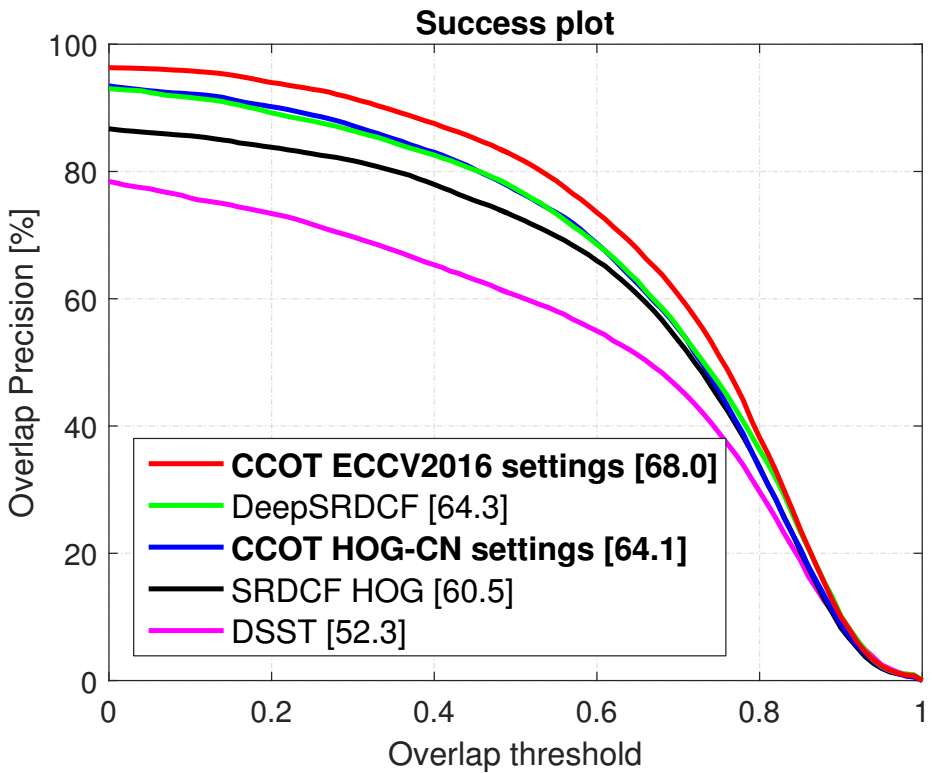
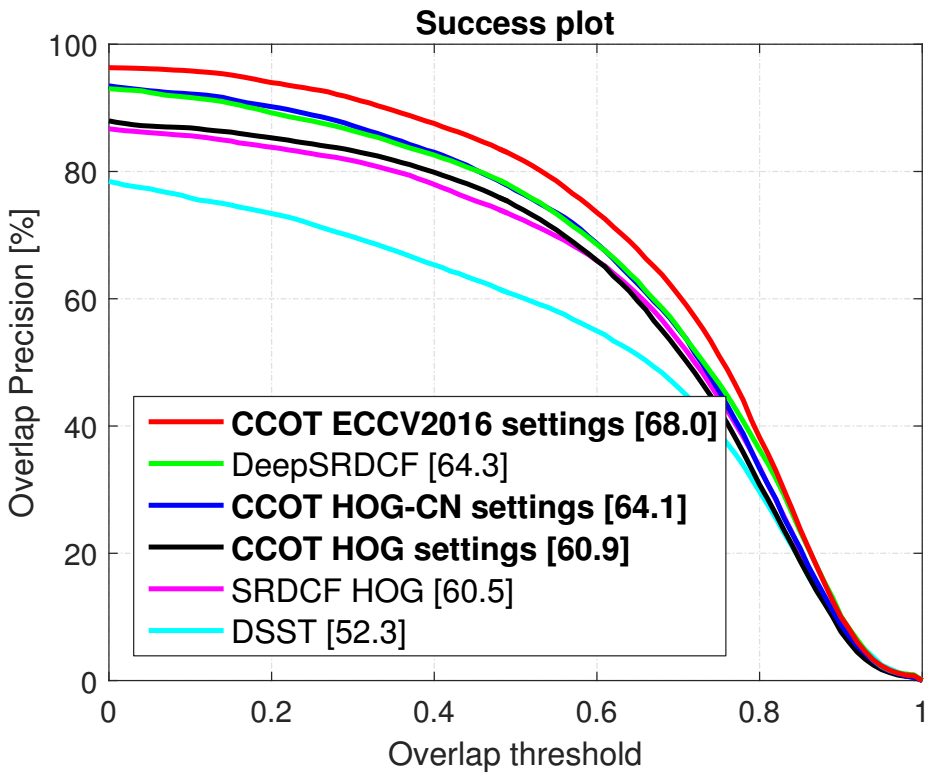
Added a HOG settings runfile.

diff --git a/runfiles/HOG_settings.m b/runfiles/HOG_settings.m
@@ -1,0 +1,87 @@
+function results=ECCV2016_settings(seq, res_path, bSaveImage, parameters)
+
+close all
+
+s_frames = seq.s_frames;
+
+% Feature specific parameters
+hog_params.cell_size = 6;
+
+grayscale_params.colorspace='gray';
+grayscale_params.cell_size = 1;
+
+cn_params.tablename = 'CNnorm';
+cn_params.useForGray = false;
+cn_params.cell_size = 4;
+
+ic_params.tablename = 'intensityChannelNorm6';
+ic_params.useForColor = false;
+ic_params.cell_size = 4;
+
+% Which features to include
+params.t_features = {
+    ...struct('getFeature',@get_colorspace, 'fparams',grayscale_params),...
+    struct('getFeature',@get_fhog,'fparams',hog_params),...
+    ...struct('getFeature',@get_table_feature, 'fparams',cn_params),...
+    ...struct('getFeature',@get_table_feature, 'fparams',ic_params),...
+};
+
+% Global feature parameters
+params.t_global.normalize_power = 2;    % Lp normalization with this p
+params.t_global.normalize_size = true;  % Also normalize with respect to the spatial size of the feature
+params.t_global.normalize_dim = true;   % Also normalize with respect to the dimensionality of the feature
+
+% Image sample parameters
+params.search_area_shape = 'square';    % The shape of the samples
+params.search_area_scale = 4.0;         % The scaling of the target size to get the search area
+params.min_image_sample_size = 150^2;   % Minimum area of image samples
+params.max_image_sample_size = 200^2;   % Maximum area of image samples
+
+% Detection parameters
+params.refinement_iterations = 1;       % Number of iterations used to refine the resulting position in a frame
+params.newton_iterations = 5;           % The number of Newton iterations used for optimizing the detection score
+
+% Learning parameters
+params.output_sigma_factor = 1/16;		% Label function sigma
+params.learning_rate = 0.010;			% Learning rate
+params.nSamples = 300;                  % Maximum number of stored training samples
+params.sample_replace_strategy = 'lowest_prior';    % Which sample to replace when the memory is full
+params.lt_size = 0;                     % The size of the long-term memory (where all samples have equal weight)
+
+% Conjugate Gradient parameters
+params.max_CG_iter = 5;                 % The number of Conjugate Gradient iterations
+params.init_max_CG_iter = 50;          % The number of Conjugate Gradient iterations used in the first frame
+params.CG_tol = 1e-3;                   % The tolerence of CG does not have any effect
+params.CG_forgetting_rate = 10;         % Forgetting rate of the last conjugate direction
+params.precond_data_param = 0.5;        % Weight of the data term in the preconditioner
+params.precond_reg_param = 0.02;        % Weight of the regularization term in the preconditioner
+
+% Regularization window parameters
+params.use_reg_window = true;           % Use spatial regularization or not
+params.reg_window_min = 1e-4;			% The minimum value of the regularization window
+params.reg_window_edge = 4e-3;         % The impact of the spatial regularization
+params.reg_window_power = 2;            % The degree of the polynomial to use (e.g. 2 is a quadratic window)
+params.reg_sparsity_threshold = 0.05;   % A relative threshold of which DFT coefficients that should be set to zero
+
+% Interpolation parameters
+params.interpolation_method = 'bicubic';    % The kind of interpolation kernel
+params.interpolation_bicubic_a = -0.75;     % The parameter for the bicubic interpolation kernel
+params.interpolation_centering = true;      % Center the kernel at the feature sample
+params.interpolation_windowing = false;     % Do additional windowing on the Fourier coefficients of the kernel
+
+% Scale parameters
+params.number_of_scales = 7;            % Number of scales to run the detector
+params.scale_step = 1.01;               % The scale factor
+
+% Other parameters
+params.visualization = 0;               % Visualiza tracking and detection scores
+params.debug = 0;                       % Do full debug visualization
+
+
+% Initialize
+params.wsize = [seq.init_rect(1,4), seq.init_rect(1,3)];
+params.init_pos = [seq.init_rect(1,2), seq.init_rect(1,1)] + floor(params.wsize/2);
+params.s_frames = s_frames;
+
+% Run tracker
+results = tracker(params);

diff --git a/README.md b/README.md
@@ -100,13 +100,15 @@ Lastly, perform steps 3. and 4. above.
 
 The files in the runfiles/ directory are uset to set parameters and run the tracker. You can create your own runfiles by copying an existing one and then play around with different parameters and feature combinations. 
 
-Three runfiles are included:
+These runfiles are included:
 
 * ECCV2016_settings.m  -  Contains the parameter settings that were used in the ECCV 2016 paper.
 
 * VOT2016_settings.m  -  Contains the parameter settings that were used in the Visual Object Tracking (VOT) 2016 challenge submission.
 
 * HOG_CN_settings.m  -  Employs only HOG and Color Names [6] features with cell sizes 6 and 4 respectively. This version is faster and does not require matconvnet.
+
+* HOG_settings.m  -  Employs only HOG features. Similar to SRDCF but significantly faster (13 mean FPS on OTB-2015).
 
 * testing.m  -  Has the same settings as in ECCV2016_settings.m by default, but can be used for playing around with parameters and features.
 
